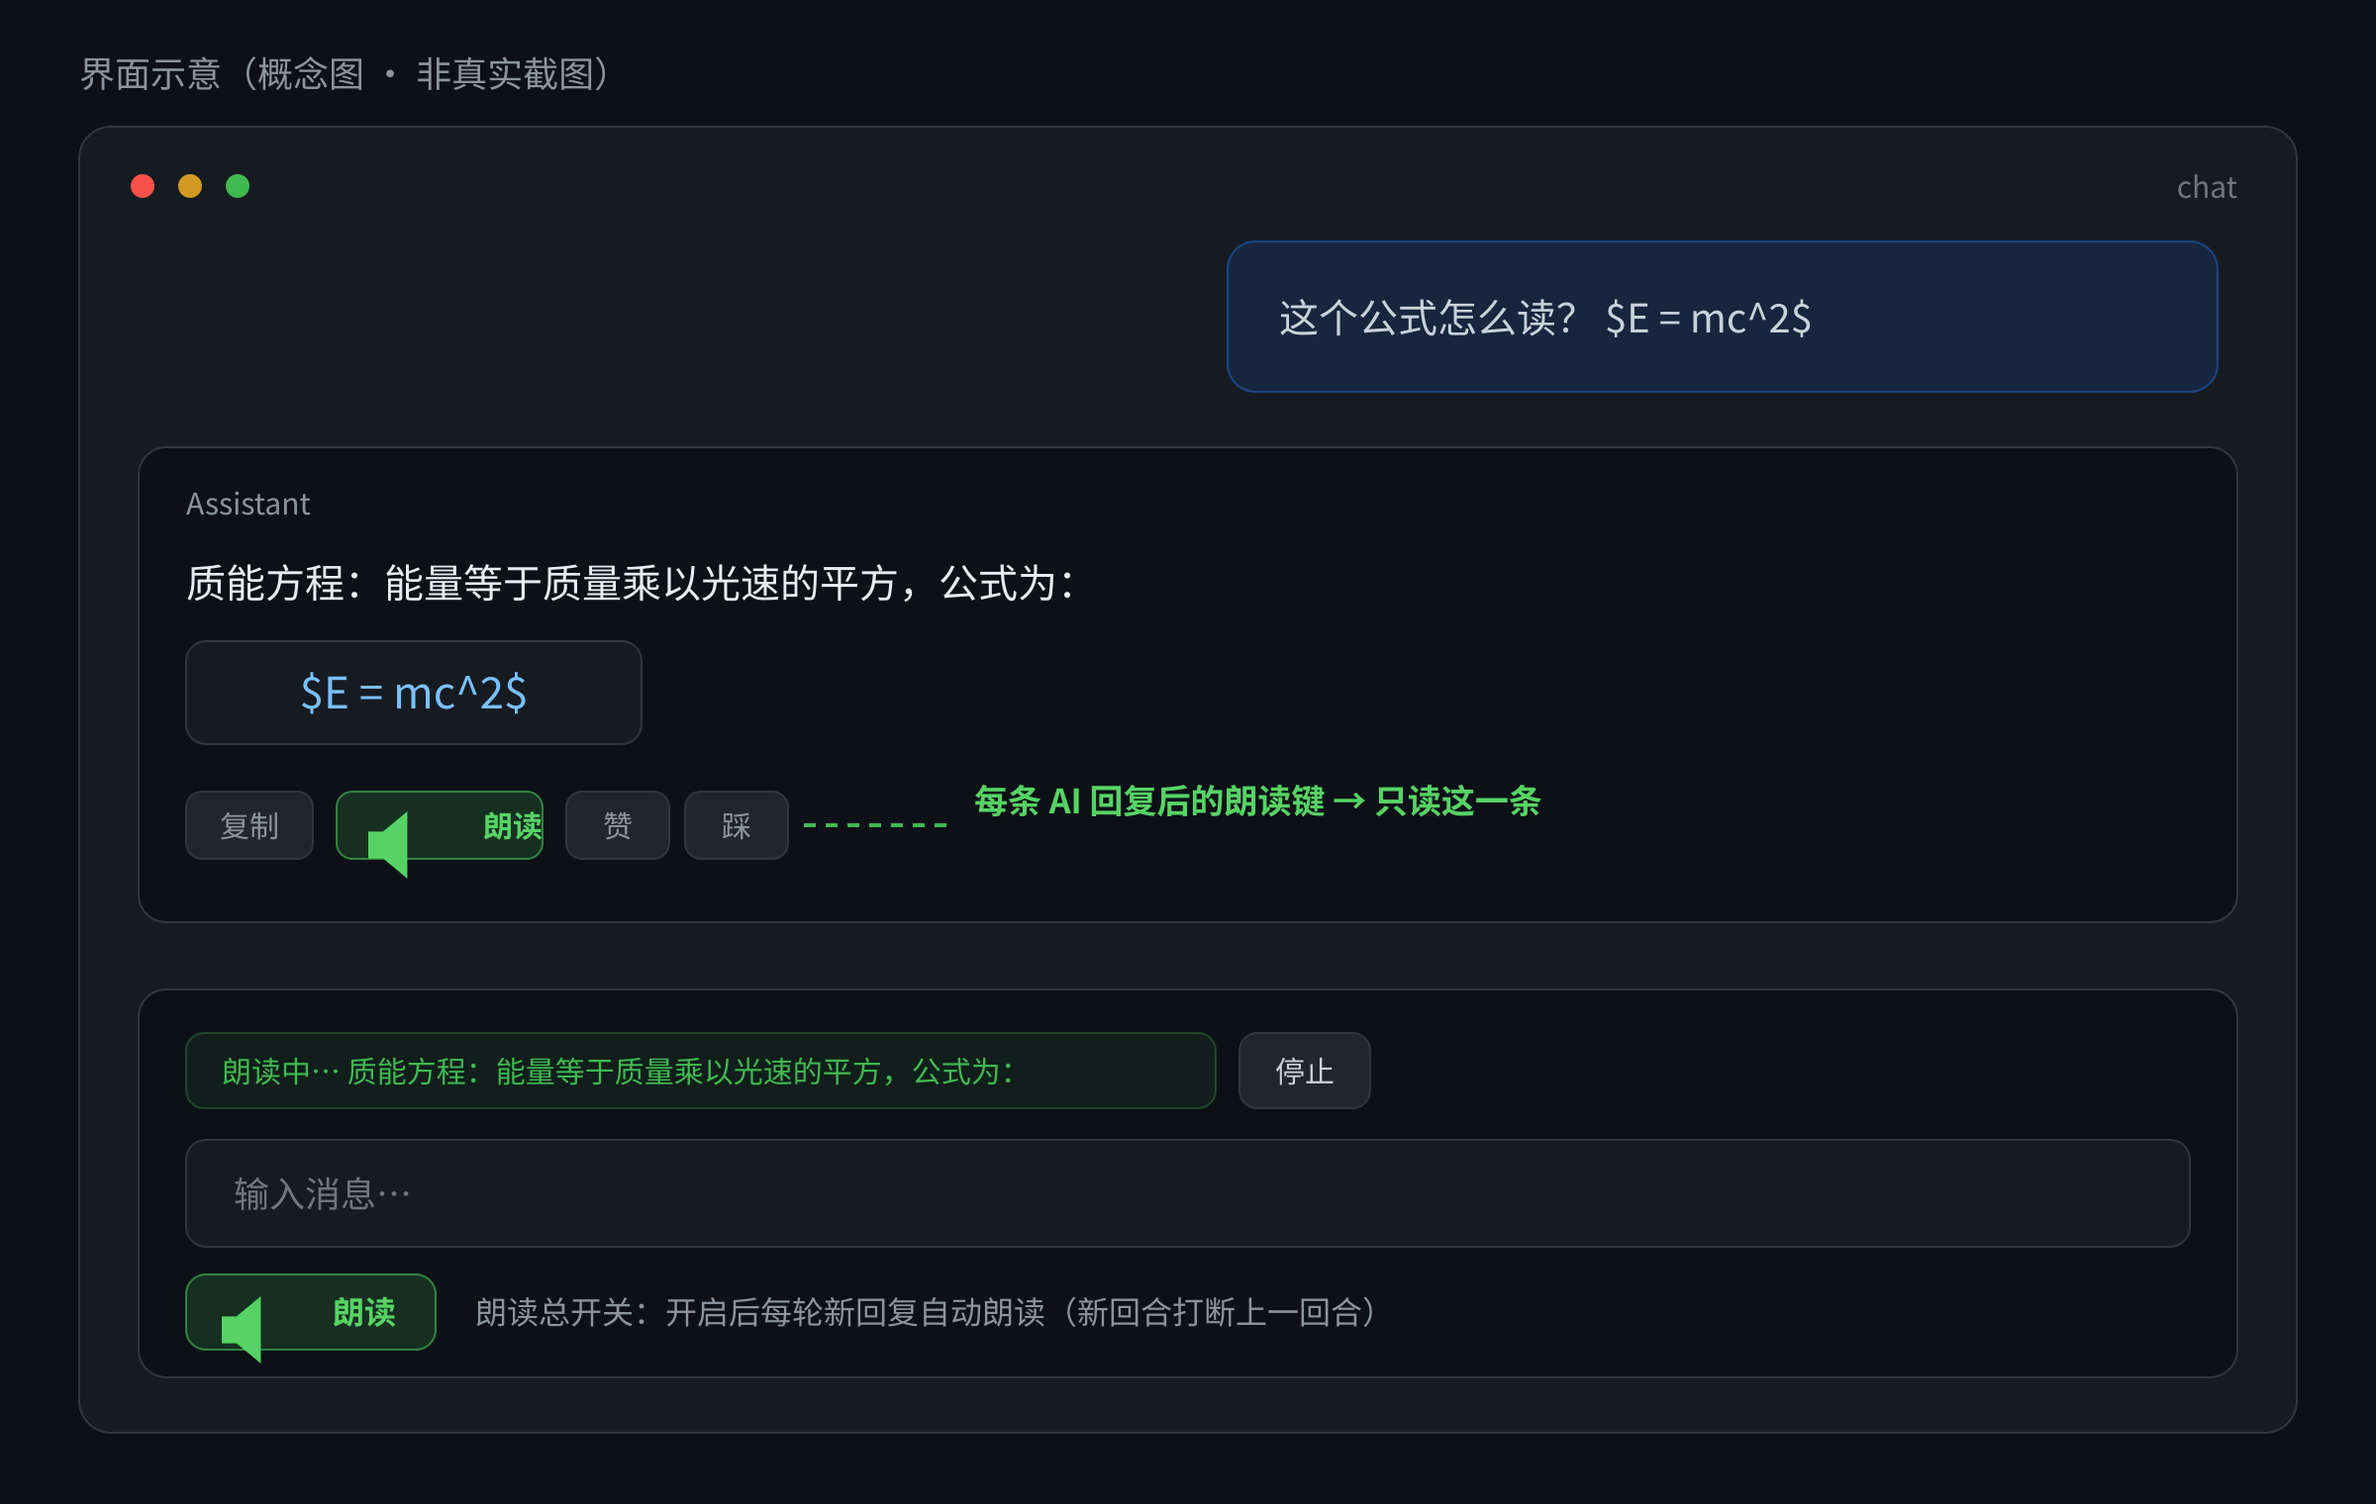
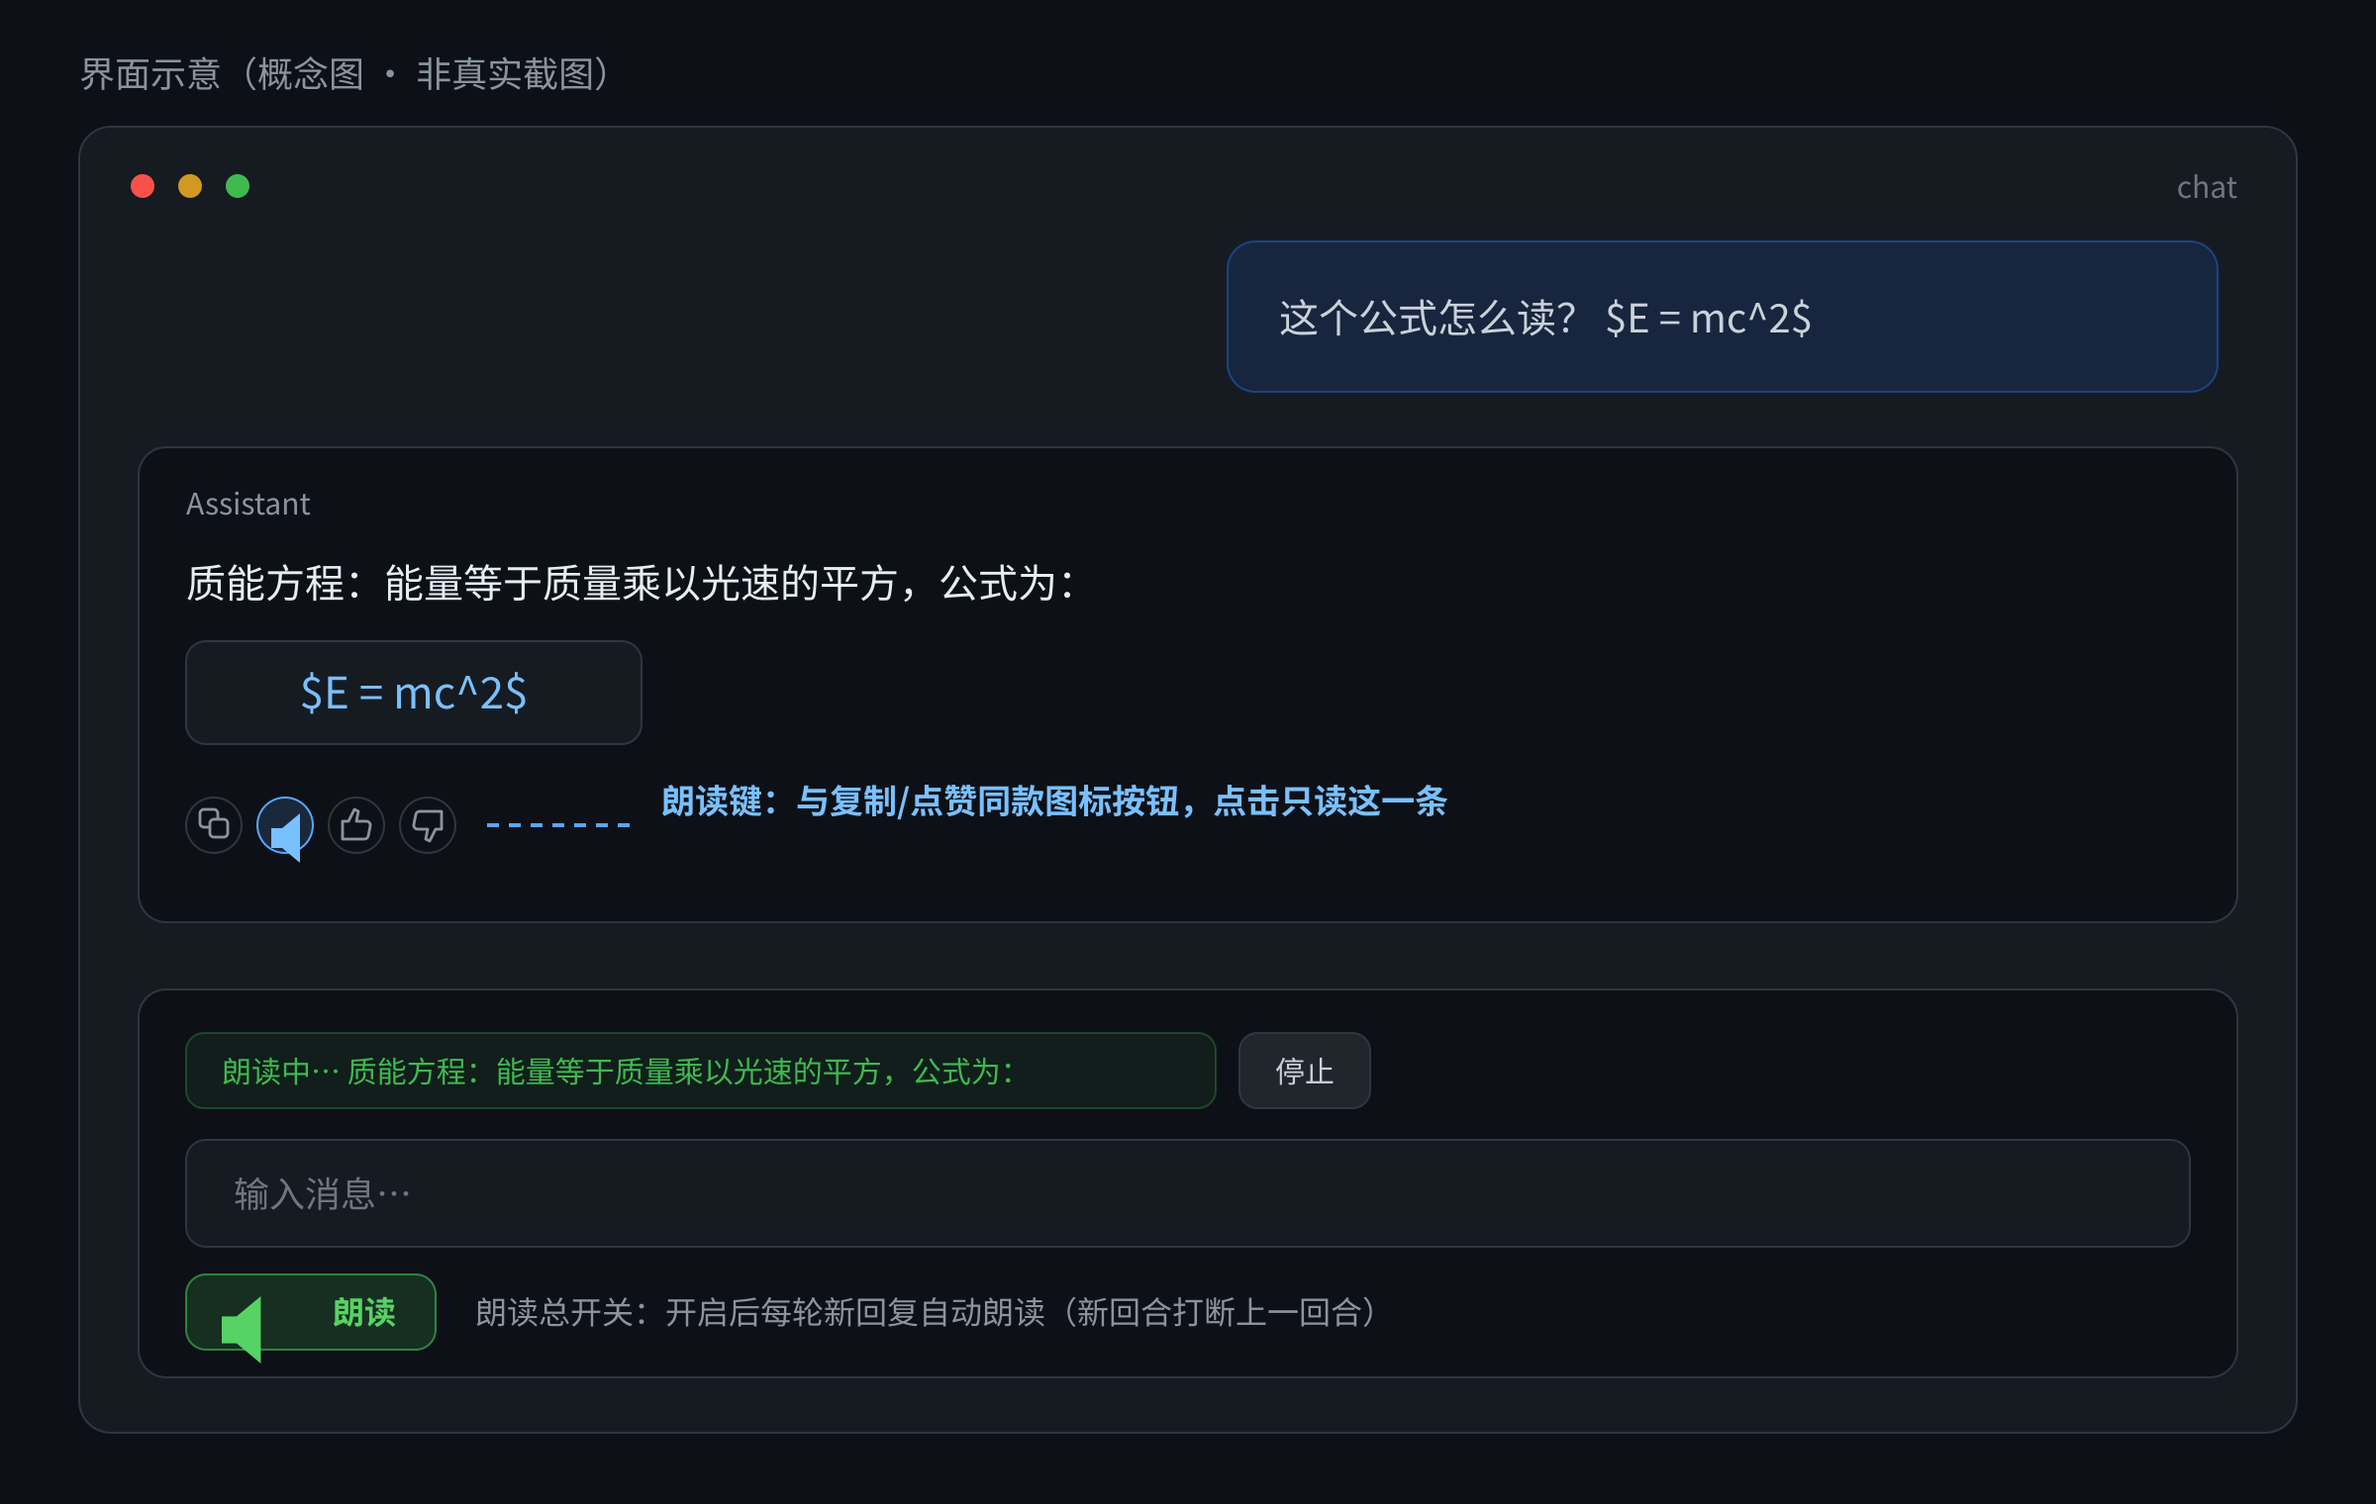
feat(client): 消息朗读键对齐官方图标按钮样式 + 点击反馈
- 复用官方 MessageIconActions / MessageFeedbackActions 的图标按钮样式（28px 圆形、透明无边框、label-tertiary、hover 用 --dsw-alias-interactive-bg-hover）\n- 点击反馈：:active 缩放 + 点击脉冲动画；本条正在朗读时按钮高亮（reader.speakingKey）\n- 同步更新界面示意图 ui-overview（操作行改为同款圆形图标按钮）

Changed region(s): [[0.0625, 0.5257, 0.6562, 0.5875]]

diff --git a/plugin/dsh-voice-mode/src/client.tsx b/plugin/dsh-voice-mode/src/client.tsx
@@ -53,6 +53,8 @@ interface ReaderState {
   caption: string | null
   ttsNotice: string | null
   notice: string | null
+  /** 当前正在手动朗读的消息 key（messageId 字符串）；用于让对应朗读键保持高亮。 */
+  speakingKey: string | null
 }
 
 interface Reader {
@@ -62,7 +64,7 @@ interface Reader {
   setCurrentSession(id: string | null): void
   enter(sessionId: string): Promise<{ ok: boolean; error?: string }>
   exit(sessionId: string): Promise<void>
-  speak(sessionId: string, text: string): Promise<{ ok: boolean }>
+  speak(sessionId: string, text: string, key?: string): Promise<{ ok: boolean }>
   stop(sessionId: string): void
 }
 
@@ -214,7 +216,7 @@ function createAudioEngine(
 
 function createReader(): Reader {
   const listeners = new Set<(s: ReaderState) => void>()
-  const state: ReaderState = { autoRead: null, playing: false, caption: null, ttsNotice: null, notice: null }
+  const state: ReaderState = { autoRead: null, playing: false, caption: null, ttsNotice: null, notice: null, speakingKey: null }
   let source: EventSource | null = null
   let currentSessionId: string | null = null
   const notify = (): void => {
@@ -230,7 +232,8 @@ function createReader(): Reader {
     Object.assign(state, patch)
     notify()
   }
-  const engine = createAudioEngine(setUi)
+  /** 整段播完自然收尾：清掉「本条正在朗读」高亮。 */
+  const engine = createAudioEngine(setUi, () => setUi({ speakingKey: null }))
 
   const rejectSeqUpTo = new Map<string, number>()
   const lastFinalSeq = new Map<string, number>()
@@ -249,6 +252,7 @@ function createReader(): Reader {
     curBytes = 0
     curChunkCount = 0
     engine.skip()
+    setUi({ speakingKey: null })
   }
 
   const connect = (): void => {
@@ -405,9 +409,10 @@ function createReader(): Reader {
         // SSE 广播最终会纠正
       }
     },
-    async speak(sessionId, text) {
+    async speak(sessionId, text, key) {
       doSkipAudio(sessionId)
-      setUi({ notice: null })
+      // 点击即高亮本条（点击反馈）；失败或播完由 setUi/onAllPlayed 清除。
+      setUi({ notice: null, speakingKey: key ?? null })
       try {
         const res = await fetch(location.origin + BASE_PATH + '/speak', {
           method: 'POST',
@@ -416,12 +421,12 @@ function createReader(): Reader {
         })
         if (!res.ok) {
           const out = (await res.json().catch(() => ({}))) as { error?: string }
-          setUi({ notice: out.error ?? t('readFail') })
+          setUi({ notice: out.error ?? t('readFail'), speakingKey: null })
           return { ok: false }
         }
         return { ok: true }
       } catch {
-        setUi({ notice: t('readFail') })
+        setUi({ notice: t('readFail'), speakingKey: null })
         return { ok: false }
       }
     },
@@ -518,7 +523,32 @@ export function ReadToggleButton({ reader, sessionId }: { reader: Reader; sessio
   )
 }
 
-/** 每条 AI 回复后的朗读键：只朗读被点的那一条。 */
+let buttonCssInjected = false
+/**
+ * 消息操作行图标的统一样式（与官方 MessageIconActions / MessageFeedbackActions 完全一致：
+ * 28px 圆形、透明底无边框、label-tertiary、hover 用 --dsw-alias-interactive-bg-hover），
+ * 外加点击反馈：:active 缩放 + 点击脉冲 + 「本条正在朗读」高亮。
+ */
+function injectButtonCss(): void {
+  if (buttonCssInjected || typeof document === 'undefined') return
+  buttonCssInjected = true
+  const el = document.createElement('style')
+  el.setAttribute('data-dshvm', 'css')
+  el.textContent = [
+    '.dshvma-mbtn{width:calc(28px + var(--dsh-content-font-delta,0px));height:calc(28px + var(--dsh-content-font-delta,0px));color:var(--dsw-alias-label-tertiary);cursor:pointer;background:0 0;border:none;border-radius:28px;justify-content:center;align-items:center;padding:6px;display:inline-flex;transition:background .15s ease,color .15s ease,transform .08s ease}',
+    '.dshvma-mbtn svg{width:calc(15px + var(--dsh-content-font-delta,0px));height:calc(15px + var(--dsh-content-font-delta,0px))}',
+    '.dshvma-mbtn:hover{background:var(--dsw-alias-interactive-bg-hover);color:var(--dsw-alias-label-secondary)}',
+    '.dshvma-mbtn:active{transform:scale(.88)}',
+    '.dshvma-mbtn:disabled{cursor:default;opacity:.4}',
+    '.dshvma-mbtn:disabled:hover{background:0 0;color:var(--dsw-alias-label-tertiary)}',
+    '.dshvma-mbtn[data-active="true"]{color:var(--dsw-alias-brand-primary);background:rgba(88,166,255,.14)}',
+    '.dshvma-mbtn[data-pulse="true"]{animation:dshvma-mbtn-pulse .5s ease-out}',
+    '@keyframes dshvma-mbtn-pulse{0%{box-shadow:0 0 0 0 rgba(88,166,255,.5)}100%{box-shadow:0 0 0 9px rgba(88,166,255,0)}}',
+  ].join('')
+  document.head.appendChild(el)
+}
+
+/** 每条 AI 回复后的朗读键：只朗读被点的那一条。样式与官方消息操作键一致。 */
 export function ReadMessageButton(props: {
   reader: Reader
   messageId?: unknown
@@ -527,24 +557,32 @@ export function ReadMessageButton(props: {
 }): React.ReactElement {
   const { reader, messageId, sessionId, useChat } = props
   const [s, setS] = useState<ReaderState>(reader.state)
+  const [pulse, setPulse] = useState(false)
   useEffect(() => reader.subscribe(setS), [reader])
   useEffect(() => reader.setCurrentSession(sessionId ?? null), [reader, sessionId])
   const nodes = useAssistantNodes(useChat)
   const text = React.useMemo(() => extractAssistantText(nodes, messageId), [nodes, messageId])
   const disabled = !sessionId || !text
-  void s
+  const key = messageId === undefined ? null : String(messageId)
+  const active = key !== null && s.speakingKey === key && s.playing
   return React.createElement(
     'button',
     {
       type: 'button',
+      className: 'dshvma-mbtn',
       'data-dshvm': 'read-one',
+      'data-active': active ? 'true' : undefined,
+      'data-pulse': pulse ? 'true' : undefined,
       'aria-label': t('readOneTitle'),
+      'aria-pressed': active,
       title: disabled ? t('readOneEmpty') : t('readOneTitle'),
       disabled,
       onClick: () => {
-        if (!disabled) void reader.speak(sessionId as string, text)
+        if (disabled) return
+        setPulse(true)
+        setTimeout(() => setPulse(false), 520)
+        void reader.speak(sessionId as string, text, key ?? undefined)
       },
-      style: iconButtonStyle(false, disabled),
     },
     React.createElement(SpeakerIcon, {}),
   )
@@ -599,6 +637,7 @@ export function ReadingStatusBar({ reader, sessionId }: { reader: Reader; sessio
 }
 
 export function apply(ctx: any): void {
+  injectButtonCss()
   const reader = createReader()
 
   ctx.slots.inject('conversation.input.right', () =>

diff --git a/plugin/dsh-voice-mode/lib/client.js b/plugin/dsh-voice-mode/lib/client.js
@@ -1233,7 +1233,7 @@ function VoiceSettingsCard({ scope }) {
 
 // src/client.tsx
 var inject = ["slots", "sessions", "settingsScope"];
-var BUILD_TAG = "b27d981";
+var BUILD_TAG = "b2bbbde";
 console.log("[dsh-voice-mode-adaptation] build=" + BUILD_TAG);
 var BASE_PATH2 = "/voice-mode-adaptation";
 function createAudioEngine(setUi, onAllPlayed) {
@@ -1369,7 +1369,7 @@ function createAudioEngine(setUi, onAllPlayed) {
 }
 function createReader() {
   const listeners = /* @__PURE__ */ new Set();
-  const state = { autoRead: null, playing: false, caption: null, ttsNotice: null, notice: null };
+  const state = { autoRead: null, playing: false, caption: null, ttsNotice: null, notice: null, speakingKey: null };
   let source = null;
   let currentSessionId = null;
   const notify = () => {
@@ -1384,7 +1384,7 @@ function createReader() {
     Object.assign(state, patch);
     notify();
   };
-  const engine = createAudioEngine(setUi);
+  const engine = createAudioEngine(setUi, () => setUi({ speakingKey: null }));
   const rejectSeqUpTo = /* @__PURE__ */ new Map();
   const lastFinalSeq = /* @__PURE__ */ new Map();
   let curSentenceId = null;
@@ -1400,6 +1400,7 @@ function createReader() {
     curBytes = 0;
     curChunkCount = 0;
     engine.skip();
+    setUi({ speakingKey: null });
   };
   const connect = () => {
     if (source) return;
@@ -1546,9 +1547,9 @@ function createReader() {
       } catch {
       }
     },
-    async speak(sessionId, text) {
+    async speak(sessionId, text, key) {
       doSkipAudio(sessionId);
-      setUi({ notice: null });
+      setUi({ notice: null, speakingKey: key ?? null });
       try {
         const res = await fetch(location.origin + BASE_PATH2 + "/speak", {
           method: "POST",
@@ -1557,12 +1558,12 @@ function createReader() {
         });
         if (!res.ok) {
           const out = await res.json().catch(() => ({}));
-          setUi({ notice: out.error ?? t("readFail") });
+          setUi({ notice: out.error ?? t("readFail"), speakingKey: null });
           return { ok: false };
         }
         return { ok: true };
       } catch {
-        setUi({ notice: t("readFail") });
+        setUi({ notice: t("readFail"), speakingKey: null });
         return { ok: false };
       }
     },
@@ -1647,27 +1648,54 @@ function ReadToggleButton({ reader, sessionId }) {
     s.playing ? t("readPlaying") : t("readToggle")
   );
 }
+var buttonCssInjected = false;
+function injectButtonCss() {
+  if (buttonCssInjected || typeof document === "undefined") return;
+  buttonCssInjected = true;
+  const el = document.createElement("style");
+  el.setAttribute("data-dshvm", "css");
+  el.textContent = [
+    ".dshvma-mbtn{width:calc(28px + var(--dsh-content-font-delta,0px));height:calc(28px + var(--dsh-content-font-delta,0px));color:var(--dsw-alias-label-tertiary);cursor:pointer;background:0 0;border:none;border-radius:28px;justify-content:center;align-items:center;padding:6px;display:inline-flex;transition:background .15s ease,color .15s ease,transform .08s ease}",
+    ".dshvma-mbtn svg{width:calc(15px + var(--dsh-content-font-delta,0px));height:calc(15px + var(--dsh-content-font-delta,0px))}",
+    ".dshvma-mbtn:hover{background:var(--dsw-alias-interactive-bg-hover);color:var(--dsw-alias-label-secondary)}",
+    ".dshvma-mbtn:active{transform:scale(.88)}",
+    ".dshvma-mbtn:disabled{cursor:default;opacity:.4}",
+    ".dshvma-mbtn:disabled:hover{background:0 0;color:var(--dsw-alias-label-tertiary)}",
+    '.dshvma-mbtn[data-active="true"]{color:var(--dsw-alias-brand-primary);background:rgba(88,166,255,.14)}',
+    '.dshvma-mbtn[data-pulse="true"]{animation:dshvma-mbtn-pulse .5s ease-out}',
+    "@keyframes dshvma-mbtn-pulse{0%{box-shadow:0 0 0 0 rgba(88,166,255,.5)}100%{box-shadow:0 0 0 9px rgba(88,166,255,0)}}"
+  ].join("");
+  document.head.appendChild(el);
+}
 function ReadMessageButton(props) {
   const { reader, messageId, sessionId, useChat } = props;
   const [s, setS] = (0, import_react2.useState)(reader.state);
+  const [pulse, setPulse] = (0, import_react2.useState)(false);
   (0, import_react2.useEffect)(() => reader.subscribe(setS), [reader]);
   (0, import_react2.useEffect)(() => reader.setCurrentSession(sessionId ?? null), [reader, sessionId]);
   const nodes = useAssistantNodes(useChat);
   const text = React.useMemo(() => extractAssistantText(nodes, messageId), [nodes, messageId]);
   const disabled = !sessionId || !text;
-  void s;
+  const key = messageId === void 0 ? null : String(messageId);
+  const active = key !== null && s.speakingKey === key && s.playing;
   return React.createElement(
     "button",
     {
       type: "button",
+      className: "dshvma-mbtn",
       "data-dshvm": "read-one",
+      "data-active": active ? "true" : void 0,
+      "data-pulse": pulse ? "true" : void 0,
       "aria-label": t("readOneTitle"),
+      "aria-pressed": active,
       title: disabled ? t("readOneEmpty") : t("readOneTitle"),
       disabled,
       onClick: () => {
-        if (!disabled) void reader.speak(sessionId, text);
-      },
-      style: iconButtonStyle(false, disabled)
+        if (disabled) return;
+        setPulse(true);
+        setTimeout(() => setPulse(false), 520);
+        void reader.speak(sessionId, text, key ?? void 0);
+      }
     },
     React.createElement(SpeakerIcon, {})
   );
@@ -1719,6 +1747,7 @@ function ReadingStatusBar({ reader, sessionId }) {
   );
 }
 function apply(ctx) {
+  injectButtonCss();
   const reader = createReader();
   ctx.slots.inject(
     "conversation.input.right",
